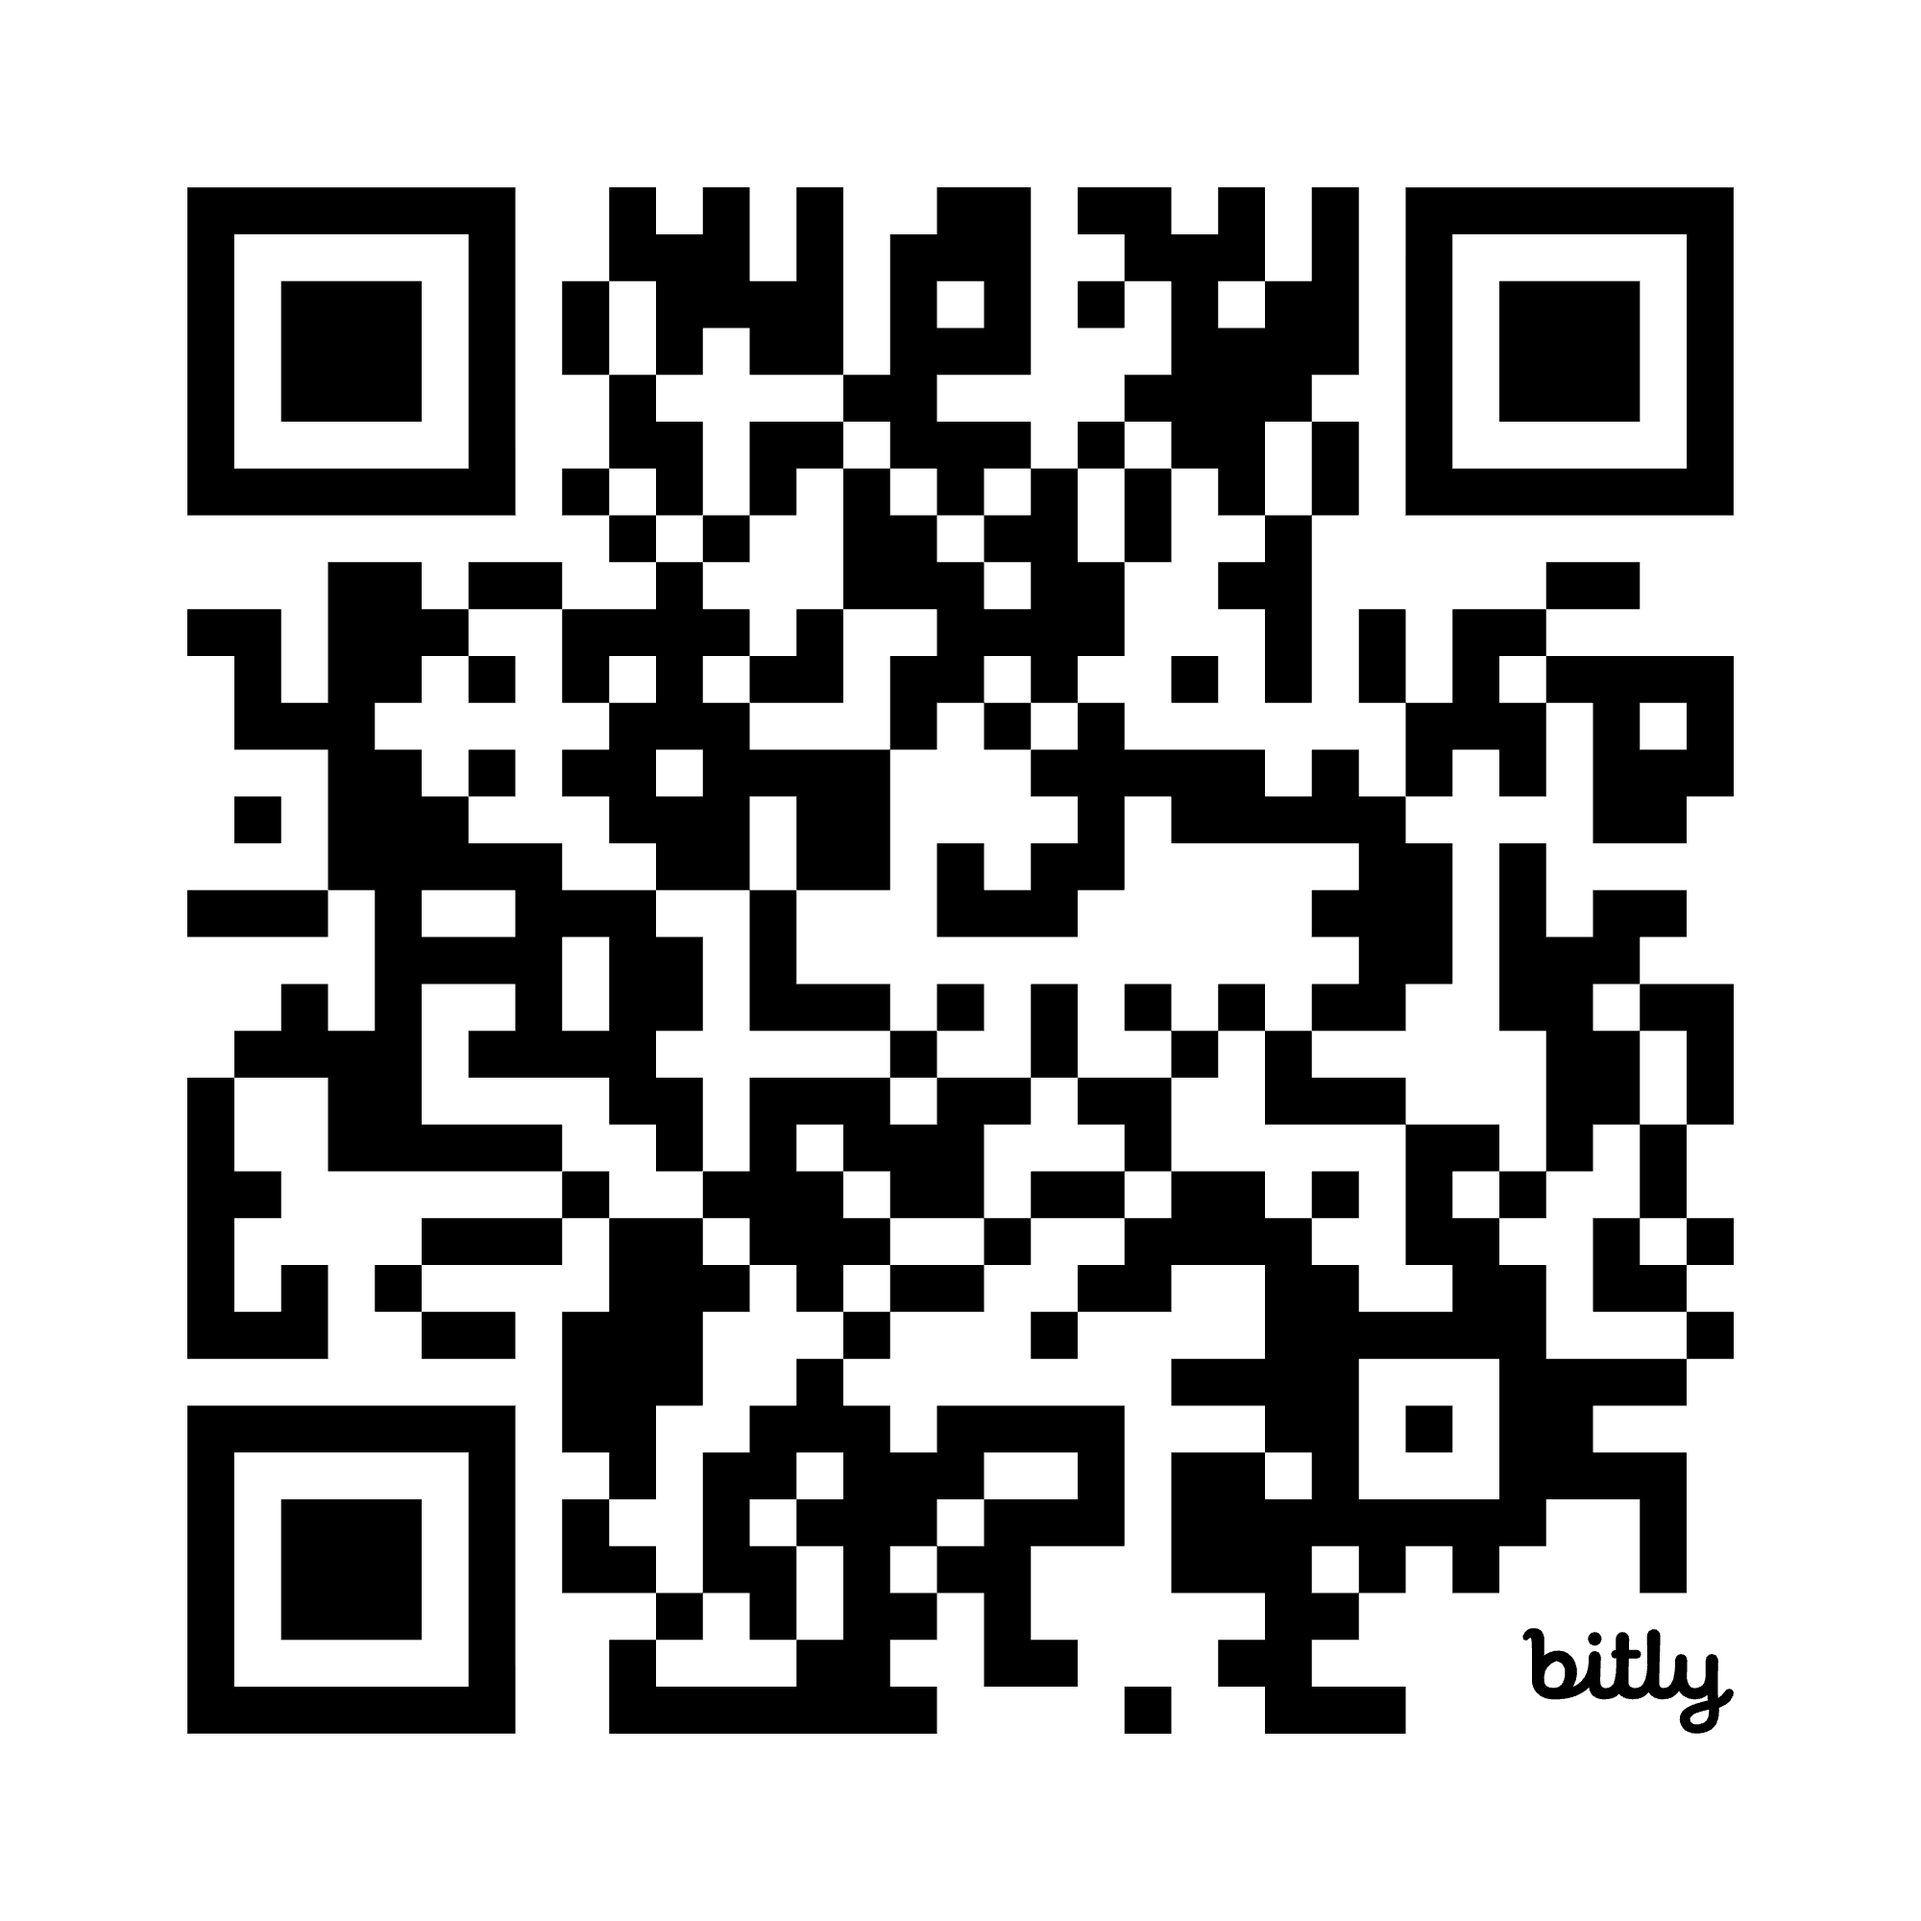
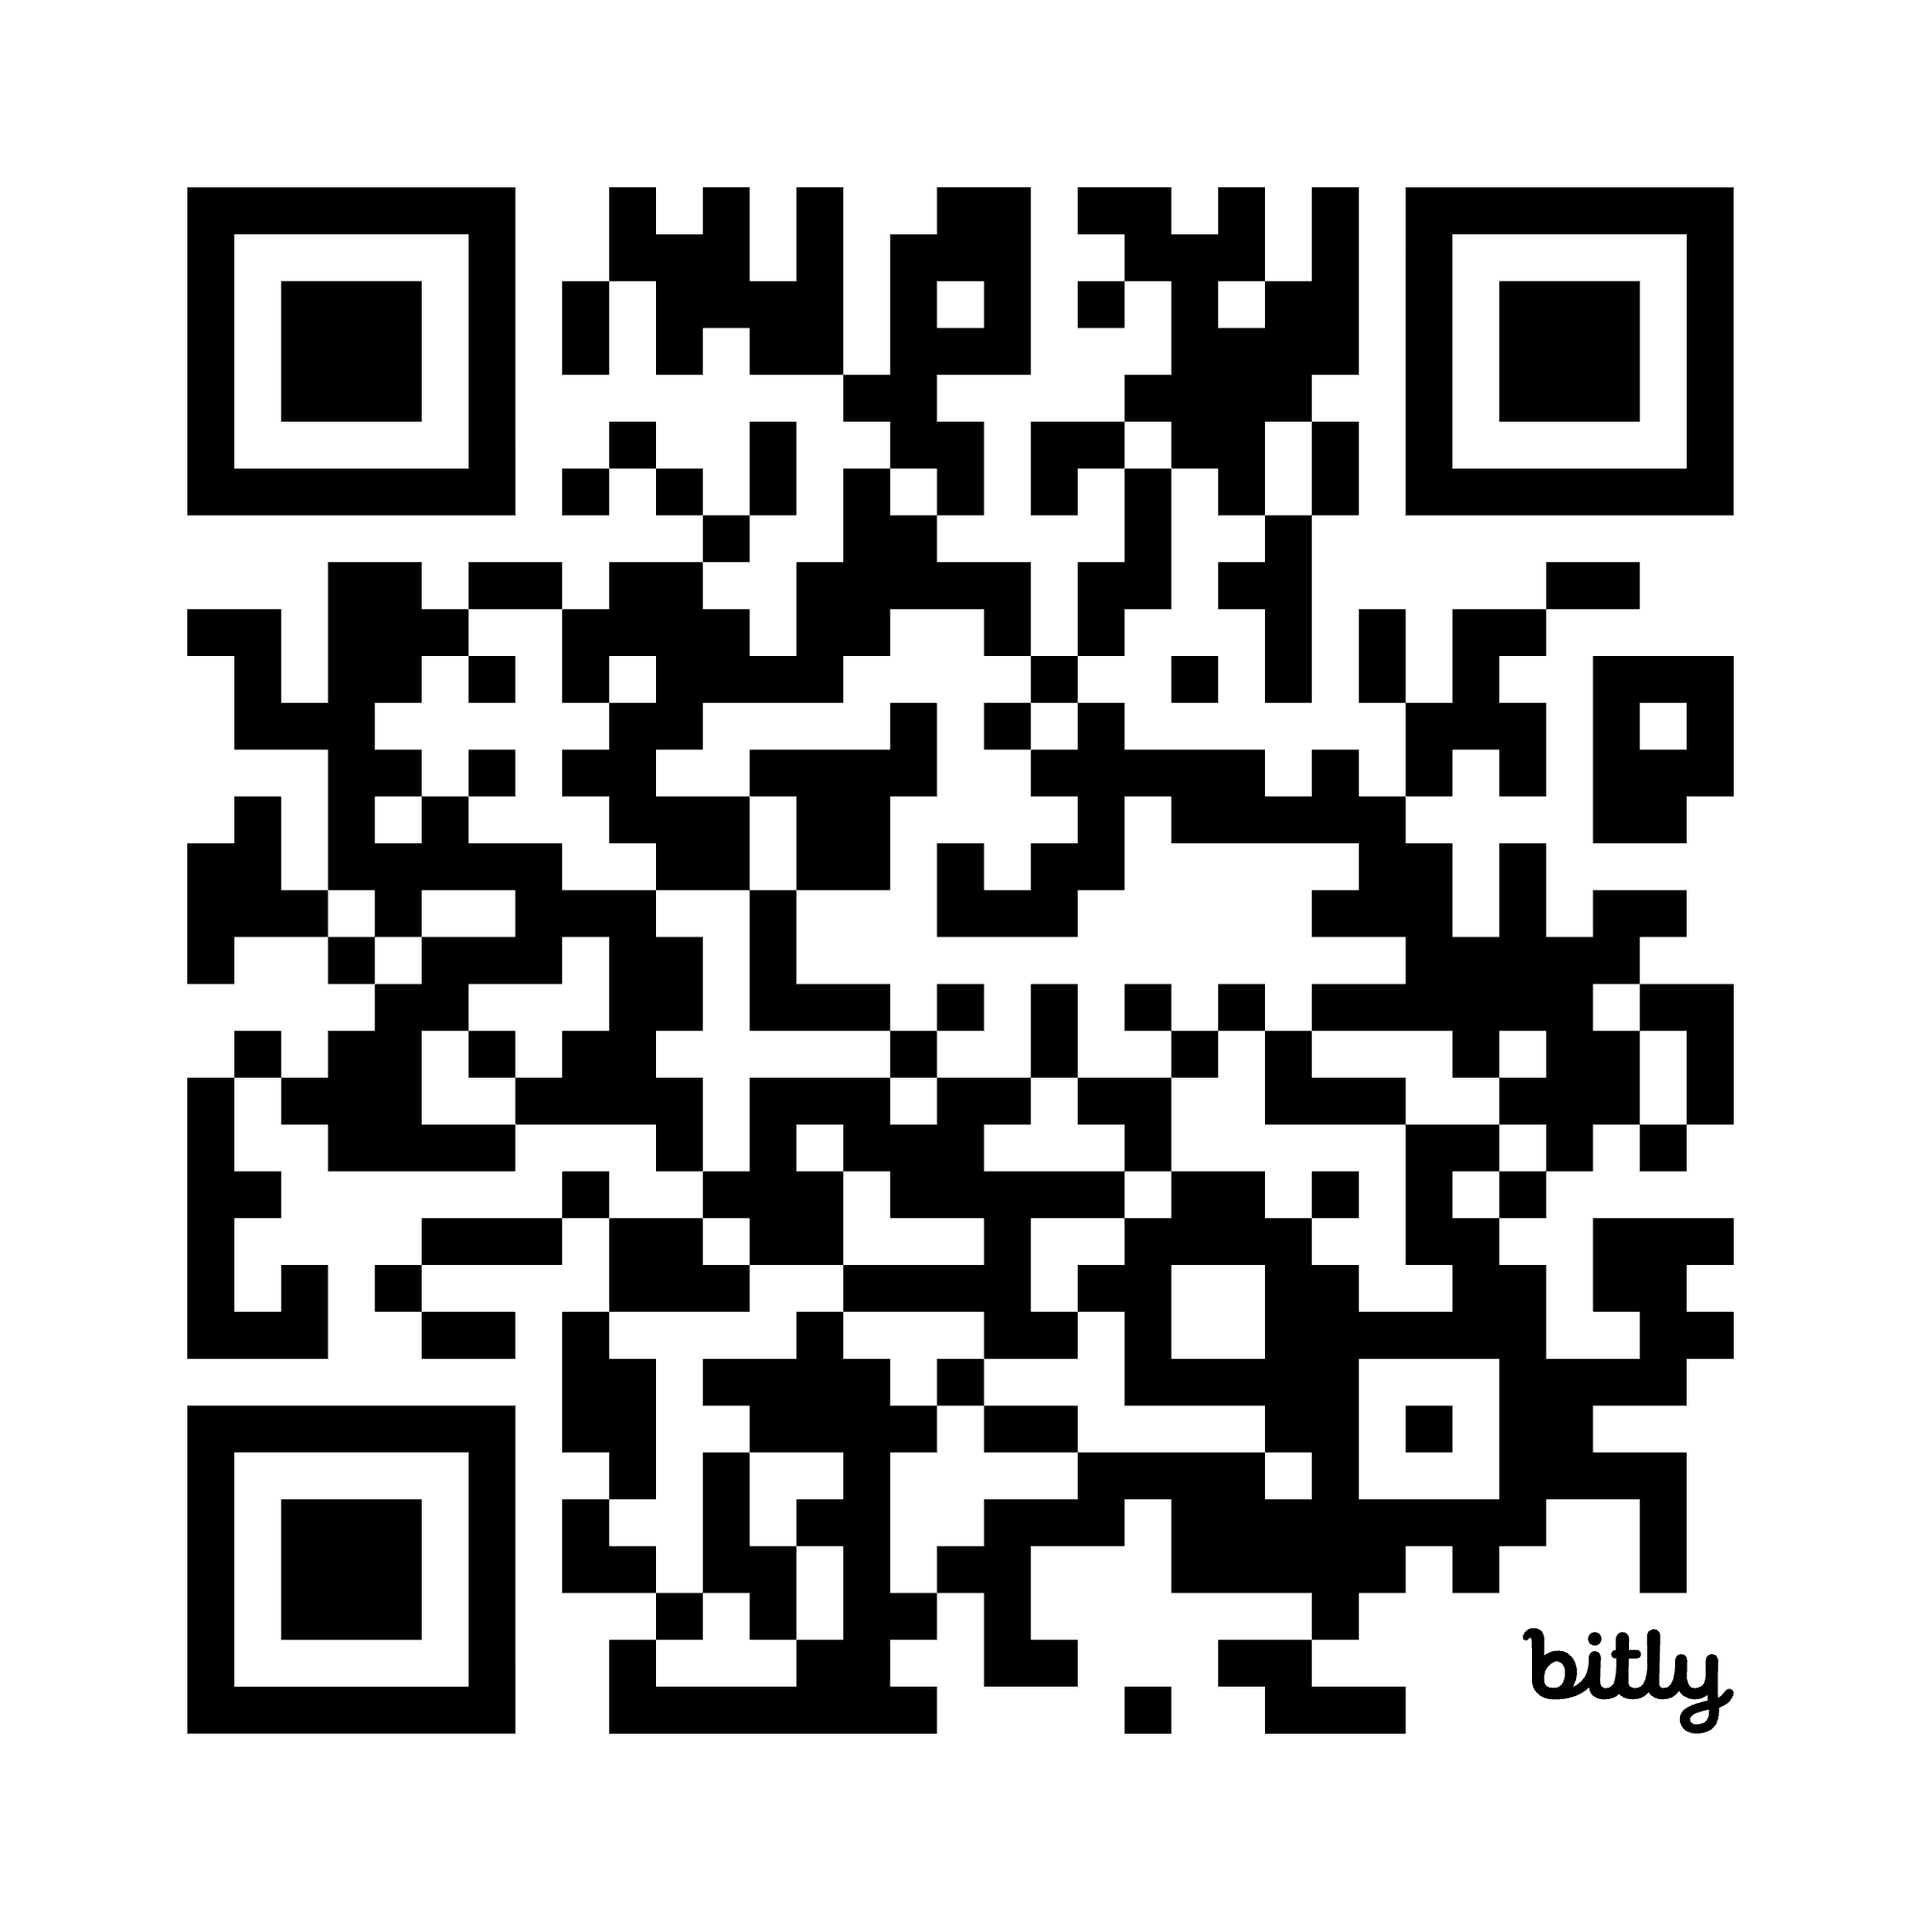
Bump v1.0.27 and refresh homepage

diff --git a/components/AtlasGame.tsx b/components/AtlasGame.tsx
@@ -1287,6 +1287,16 @@ export function AtlasGame() {
               <p className="truncate text-sm font-medium text-slate-500">
                 Colourful place-name game
               </p>
+              {showDebug && (
+                <button
+                  className="mt-2 inline-flex rounded-full border border-fuchsia-200 bg-fuchsia-50 px-3 py-1 text-[11px] font-bold text-fuchsia-700 transition hover:bg-fuchsia-100"
+                  onClick={() => void fireDebugNotification()}
+                  type="button"
+                  data-testid="quick-test-notification-button"
+                >
+                  Send test notification
+                </button>
+              )}
             </div>
 
             <button
@@ -1685,6 +1695,7 @@ export function AtlasGame() {
                   setDebugNotificationKind(nextKind.kind);
                 }
               }}
+              data-testid="debug-notification-kind"
             >
               {DEBUG_NOTIFICATION_OPTIONS.map((option) => (
                 <option key={option.kind} value={option.kind}>
@@ -1697,6 +1708,7 @@ export function AtlasGame() {
               onClick={() => void fireDebugNotification()}
               type="button"
               disabled={debugNotificationSending}
+              data-testid="send-test-notification-button"
             >
               {debugNotificationSending ? "Sending…" : "Send test notification"}
             </button>

diff --git a/backend/public/index.html b/backend/public/index.html
@@ -183,7 +183,7 @@
     <div class="alpha-banner">
       <img src="alpha-qr.png" alt="QR code to join alpha" />
       <div class="alpha-text">
-        <span class="alpha-label">🚀 Free Alpha</span>
+        <span class="alpha-label">🚀 Now in Beta</span>
         <span class="alpha-title">Try the Android app</span>
         <span class="alpha-sub">Scan the QR code from another device, or tap below:</span>
         <div class="alpha-links">

diff --git a/backend/api/place-dictionary-version.js b/backend/api/place-dictionary-version.js
@@ -1,1 +1,1 @@
-export const PLACE_DICTIONARY_VERSION = "2026-06-24T19:29:00.911Z";
+export const PLACE_DICTIONARY_VERSION = "2026-06-26T11:38:35.385Z";

diff --git a/lib/place-dictionary-version.ts b/lib/place-dictionary-version.ts
@@ -1,1 +1,1 @@
-export const PLACE_DICTIONARY_VERSION = "2026-06-24T19:29:00.911Z";
+export const PLACE_DICTIONARY_VERSION = "2026-06-26T11:38:35.385Z";

diff --git a/lib/version.ts b/lib/version.ts
@@ -1,1 +1,1 @@
-export const APP_VERSION = "1.0.26";
+export const APP_VERSION = "1.0.27";

diff --git a/README.md b/README.md
@@ -3,7 +3,7 @@
 A turn-based kids geography word-chain game. Players take turns naming places that start with the last letter of the previous place. Supports voice input, offline place validation, a global leaderboard, and in-app support.
 
 Available as:
-- **Android app** — [Google Play Store](https://play.google.com/store/apps/details?id=com.fibuladreams.atlas) (v1.0.26)
+- **Android app** — [Google Play Store](https://play.google.com/store/apps/details?id=com.fibuladreams.atlas) (v1.0.27)
 - **Web app** — [atlas-junior.vercel.app/game](https://atlas-junior.vercel.app/game)
 
 ---
@@ -141,7 +141,7 @@ The GitHub Actions workflow in `.github/workflows/place-dictionary-pipeline.yml`
 
 ---
 
-## Key features (current — v1.0.26)
+## Key features (current — v1.0.27)
 
 - **Voice-first gameplay** — tap microphone, speak a place name, and auto-save when speech stops or pauses
 - **Offline place validation** — bundled GeoNames dictionary with fuzzy "Did you mean?" suggestions

diff --git a/CHANGELOG.md b/CHANGELOG.md
@@ -1,5 +1,12 @@
 # Atlas Junior — Changelog
 
+## v1.0.27 (versionCode 28) — 2026-06-27
+
+- Homepage QR updated and the alpha label now reads “Now in Beta”
+- Release artifacts bumped together so the AAB/Play Console submission can proceed
+
+---
+
 ## v1.0.26 (versionCode 27) — 2026-06-26
 
 - Web export now rebuilds from the latest `main` during Vercel deploys, so `/game` stays in sync without committing generated files
